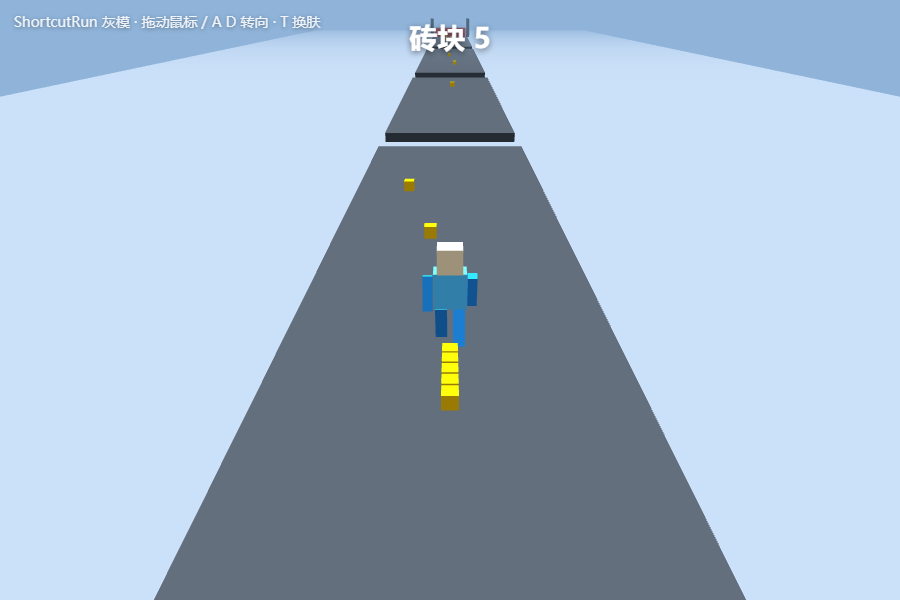
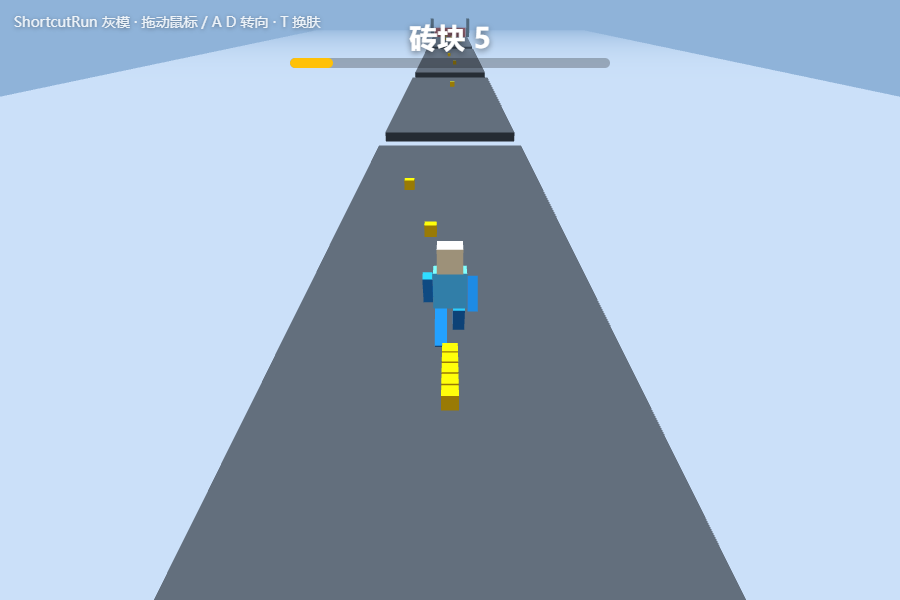
V3 第一片：关卡进度条(浏览器进度条+Cocos ProgressLabel)+SETUP.md 全面更新到 v0.2(HUD/换肤/关卡循环/测试三连)

diff --git a/web-preview/index.html b/web-preview/index.html
@@ -9,6 +9,8 @@
   .hud { position: fixed; left: 50%; transform: translateX(-50%); color: #fff; text-shadow: 0 2px 6px rgba(0,0,0,.5); user-select: none; pointer-events: none; }
   #brick { top: 18px; font-size: 28px; font-weight: bold; }
   #hint { top: 44%; font-size: 34px; font-weight: bold; text-align: center; }
+  #progbar { position: fixed; left: 50%; top: 58px; transform: translateX(-50%); width: 320px; height: 10px; background: rgba(0,0,0,.25); border-radius: 5px; overflow: hidden; }
+  #progfill { height: 100%; width: 0%; background: #ffc107; border-radius: 5px; transition: width .1s linear; }
   #title { position: fixed; left: 14px; top: 12px; color: #fff; font-size: 14px; opacity: .85; text-shadow: 0 1px 4px rgba(0,0,0,.5); user-select: none; pointer-events: none; }
 </style>
 </head>
@@ -16,6 +18,7 @@
 <div id="app"></div>
 <div id="title">ShortcutRun 灰模 · 拖动鼠标 / A D 转向 · T 换肤</div>
 <div id="brick" class="hud">砖块 0</div>
+<div id="progbar"><div id="progfill"></div></div>
 <div id="hint" class="hud">点击开始 · 终点需 14 砖</div>
 <script src="three.min.js"></script>
 <script>
@@ -418,7 +421,9 @@ function clampTarget() { const m = cfg.trackHalfWidth - 0.45; targetX = Math.max
 // ============ HUD ============
 const brickEl = document.getElementById('brick');
 const hintEl = document.getElementById('hint');
+const progFill = document.getElementById('progfill');
 function setBricksUI(n) { brickEl.textContent = '砖块 ' + n; }
+function setProgressUI(z, gateZ) { progFill.style.width = Math.max(0, Math.min(100, (z / gateZ) * 100)).toFixed(1) + '%'; }
 function showHint(t) { hintEl.textContent = t; hintEl.style.display = 'block'; }
 function hideHint() { hintEl.style.display = 'none'; }
 
@@ -547,6 +552,7 @@ function loop() {
         stackMeshes[i].position.set(x, s / 2, z - 0.6 - i * s * 1.15);
       }
     }
+    setProgressUI(z, level.gateZ);
   } else if (state === 'ready') {
     // 待机轻浮动
     player.position.y = Math.sin(elapsed * 3) * 0.03;

diff --git a/assets/scripts/GameUI.ts b/assets/scripts/GameUI.ts
@@ -11,8 +11,17 @@ export class GameUI extends Component {
   @property({ type: Label, tooltip: '中央提示：开始 / 胜利 / 失败' })
   hintLabel: Label | null = null;
 
+  @property({ type: Label, tooltip: '关卡进度百分比（可选）' })
+  progressLabel: Label | null = null;
+
   setBricks(n: number): void {
     if (this.brickLabel) this.brickLabel.string = `砖块 ${n}`;
+  }
+
+  setProgress(z: number, gateZ: number): void {
+    if (!this.progressLabel) return;
+    const pct = Math.max(0, Math.min(100, (z / gateZ) * 100));
+    this.progressLabel.string = `进度 ${pct.toFixed(0)}%`;
   }
 
   showHint(text: string): void {

diff --git a/assets/scripts/GameApp.ts b/assets/scripts/GameApp.ts
@@ -255,6 +255,7 @@ export class GameApp extends Component {
     }
     this.track.syncStack(this.bricks);
     this.track.syncRig(this.state, this.speed, this.elapsed);
+    this.ui?.setProgress(z, this.levelDef.gateZ);
   }
 
   // 拾取判定：本帧位移区间 [prevZ, z] 与拾取点区间相交即吃到（防高帧移动量穿透）

diff --git a/SETUP.md b/SETUP.md
@@ -1,4 +1,4 @@
-# Shortcut Run 复刻 · 灰模原型 v0.1
+# Shortcut Run 复刻 · 灰模原型 v0.2
 
 **零装配版**：场景和灰盒都由仓库内置/代码生成，不需要做 prefab、不需要挂脚本。
 
@@ -18,17 +18,28 @@ Cocos Dashboard → **导入** → 选择本目录 `shortcut-run`。
 1. 资源管理器里双击 **`assets/scenes/game.scene`**（Bootstrap 节点已挂好 GameApp，相机已内置）
 2. 编辑器顶部按 **▶**，然后**点击一下画面**开始
 
-成功的标志：控制台出现 `[ShortcutRun] 关卡 seed=1 断崖=5 拾取=10 ...`，屏幕里出现灰色跑道、黄色砖块、蓝色小人。
+成功的标志：控制台出现 `[ShortcutRun] 第 1 关 (seed 1001) 断崖=... 拾取=... 门需求=10`，屏幕里出现深色跑道、黄色砖块、蓝色小人。
 
 | 操作 | 按键 |
 |---|---|
 | 开始 | 任意点击 / 任意键 |
 | 转向 | 鼠标拖动 / 触屏滑动，或 `A`/`D`、`←`/`→` |
-| 重开 | 胜利/失败 1.6 秒后自动重开 |
+| 换肤 | **`T`**（城市 / 糖果主题轮换） |
+| 重开 | 胜利/失败 1.6 秒后自动进入下一关/换图重试 |
 
-规则：自动前进 → 吃砖块（身后拖砖堆 = 携带量）→ 断崖处砖够自动拍桥下来、砖不够掉落 → 终点门验 14 砖，够就开门胜利。
+规则：自动前进 → 吃砖块（身后拖砖堆 = 携带量）→ 断崖处砖够自动拍桥下来、砖不够掉落 → 终点门验砖。**赢了进下一关（L1-L10 难度递增，进度和星级自动存档），输了同关换图重试。**
 
-> 想先体验也行：双击 `web-preview/index.html` 浏览器直接玩（逻辑相同）。
+> 想先体验也行：双击 `web-preview/index.html` 浏览器直接玩（逻辑相同，还带进度条）。
+
+### 3.5 HUD（可选，约 3 分钟）
+
+不配也能玩（砖块数/进度看控制台），但试玩时建议配上：
+
+1. 层级右键 → **创建 → UI → Label**（引擎会自动生成 `Canvas` 和 UI 相机），命名为 `BrickLabel`，拖到屏幕上方中间，字号调大（如 60）
+2. 再建 Label 命名 `HintLabel`（屏幕中央）和 `ProgressLabel`（BrickLabel 下方）
+3. `Canvas` 节点挂 **GameUI** 组件，把三个 Label 分别拖到对应字段
+
+效果：上方常驻“砖块 N / 进度 xx%”，中央显示关卡提示（含本关最佳成绩）/ 胜利星级 / 失败原因。
 
 ## 4. 兜底：如果 game.scene 打不开/报错
 
@@ -42,23 +53,20 @@ Cocos Dashboard → **导入** → 选择本目录 `shortcut-run`。
 
 ## 5. 调参（手感不对就改这里）
 
-全部在 `assets/scripts/config.ts`：
-
-| 参数 | 作用 | 调整方向 |
-|---|---|---|
-| `runSpeed` / `speedPerBrick` / `maxSpeed` | 速度与加速感 | 觉得肉就先加 20% |
-| `steerSpeed` / `steerPerPixel` | 转向跟手度 | 觉得涩就加大 |
-| `gapWidthMin/Max`、`gapIntervalMin/Max` | 难度曲线 | 太难就缩窄断崖/拉大间隔 |
-
-`seed`（GameApp 组件上）换数字 = 换一张关卡图。
+| 文件 | 管什么 |
+|---|---|
+| `assets/scripts/config.ts` | 手感参数（速度/转向/相机） |
+| `assets/scripts/LevelCurve.ts` | L1-L10 难度曲线（断崖宽窄/间隔/门需求/速度） |
+| `assets/scripts/Theme.ts` | 主题色表（换肤改这里） |
 
 ## 6. 决策关口（G1）
 
-**连玩 30 分钟。** 还想再来一把 = 立项成功，进入 v0.2（Mixamo 角色/广告 SDK/主题换肤）；觉得无聊 = 趁早砍，只亏两周。
+**连玩 30 分钟。** 还想再来一把 = 立项成功，进入下一阶段（UI 打磨/音效/广告 SDK）；觉得无聊 = 趁早砍，只亏两周。
 
 ## 7. 测试
 
 ```bash
-node tools/smoke.ts          # 关卡生成器 50 种子不变量
-node tools/verify-web.mjs    # 浏览器版端到端 10 项断言
+node tools/smoke.ts          # 关卡生成器：parity + 200 种子不变量 + bot 通关率 + 曲线漂移 + progression
+node tools/verify-web.mjs    # 浏览器版端到端 11 项断言（含换肤/像素检测）
+node docs/qoder/sim.mjs      # 规则母本验收套件（Qoder 维护）
 ```
